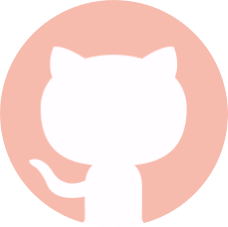
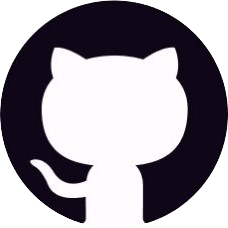
change color scheme

diff --git a/style.css b/style.css
@@ -2,10 +2,18 @@
 C4907E
 D9DBDD
 577F91
+f4bdaa
 252627 */
 
+/* 
+#0E0B16
+#A239CA
+#4717F6
+#E7DFDD
+*/
+
 body{
-    background: #D9DBDD;
+    background: #0E0B16;
     overflow: hidden;
     font-family:"Century Gothic", "sans serif";
 } 
@@ -32,14 +40,14 @@ body{
     width: 20vw;
     max-width:180px;
     height: 100vh;
-    background:#577F91; /*#F7EDE2;*/
+    background:#4717F6; /*#F7EDE2;*/
     padding: 30px;
     text-align: center;
     margin-top: 0%;
     font-size: min(2vw, 15px);
 }
 .nav-box-img{
-    border: 5px solid #f4bdaa;
+    border: 5px solid #0E0B16;
     width: 15vw;
     max-width: 100px;
     height: 15vw;
@@ -104,13 +112,14 @@ body{
   font-family:'Century Gothic', sans-serif;
   width: 40%;
   height: 60vh;
-  color: #252627;
+  color: #0E0B16;
   font-size: 1.5vw;
   padding-inline: 2vw;
+  color: #FFFFFF;
 }
 
 .about-me-box span{
-  color:#7B1618;
+  color:#A239CA;
   font-size: 110%;
   font-weight: 900;
 }
@@ -118,17 +127,17 @@ body{
 .about-me p{
   position: relative;
   font-family:"Century Gothic", "sans serif";
-  color: #252627;
+  color: #0E0B16;
   text-align:center;
 }
 
 .button {
-  background: #f4bdaa;
+  background: #A239CA;
   padding: 1vw;
   border-radius:0.5vw;
   text-decoration: none;
-  color:#7B1618;
-  border-color:#252627;
+  color:#0E0B16;
+  border-color:#A239CA;
   border-width: 1vw;
 }
 
@@ -139,7 +148,7 @@ body{
 .about-me-box .slideshow {
   width: 100%;
   margin: 10px auto;
-  filter: drop-shadow(0 0 10px #0003);
+  
 }
 
 .carousel.photos {
@@ -177,6 +186,7 @@ body{
 }
 
 .caption {
+  padding-top: 2vh;
   display: flex;
   justify-content: center;
   font-size: 80%;
@@ -269,8 +279,7 @@ body{
 .projtile {
   height: 50vh;
   width: 20vw;
-  background-color: #f4bdaa;
-  filter: drop-shadow(0 0 10px #0003);
+  background-color: #A239CA;
 }
 
 .projtile img {
@@ -283,7 +292,7 @@ body{
 .projtile .title {
   margin-left: 1.5vw;
   transform: translateY(-3vh);
-  color: #252627;
+  color: #0E0B16;
   letter-spacing: 1px;
   font-size: 75%;
   font-weight: 900;
@@ -292,7 +301,7 @@ body{
 .projtile .descr {
   margin-inline: 1.5vw;
   transform: translateY(-3vh);
-  color: #252627;
+  color: #0E0B16;
   letter-spacing: 1px;
   font-size: 50%;
 }

diff --git a/projects.html b/projects.html
@@ -12,15 +12,15 @@
                 <img src="about_me_photos/profile_pic.jpg" alt="" class="nav-box-img">
                 <h1>Indu Chatterjee</h1>
                 <a href="index.html" id="index">ABOUT ME</a>
-                <a href="projects.html" id="projects" style="color:#7B1618;">PROJECTS</a>
+                <a href="projects.html" id="projects" style="color:#0E0B16;">PROJECTS</a>
                 <ul> 
                     <li><a href="https://www.linkedin.com/in/indraja-chatterjee/" target="_blank"><img src="LinkedIn logo.png"></a></li> 
                     <li><a href="https://github.com/induc22" target="_blank"><img src="github-mark.png"></a></li>
                 </ul>
-                <a href="mailto:ichatterjee9@gatech.edu" class="button" style="color:#7B1618">EMAIL ME</a>
+                <a href="mailto:ichatterjee9@gatech.edu" class="button" style="color:#0E0B16">EMAIL ME</a>
             </div>
             <div class="page">
-                <h1 style="text-align: center;">My Projects</h1>
+                <h1 style="text-align: center; color: #E7DFDD">My Projects</h1>
                 <div class="masonry-grid" style="display: grid; grid-gap: 4vw; grid-template-columns: repeat(auto-fit, 20vw); justify-content: center;">
                     <div class="projtile">
                         <img src="about_me_photos/hive_hiking.PNG">

diff --git a/index.html b/index.html
@@ -11,13 +11,13 @@
             <div class="nav-box">
                 <img src="about_me_photos/profile_pic.jpg" alt="" class="nav-box-img">
                 <h1>Indu Chatterjee</h1>
-                <a href="index.html" id="index" style="color:#7B1618;">ABOUT ME</a>
+                <a href="index.html" id="index" style="color:#0E0B16;">ABOUT ME</a>
                 <a href="projects.html" id="projects">PROJECTS</a>
                 <ul> 
                     <li><a href="https://www.linkedin.com/in/indraja-chatterjee/" target="_blank"><img src="LinkedIn logo.png"></a></li> 
                     <li><a href="https://github.com/induc22" target="_blank"><img src="github-mark.png"></a></li>
                 </ul>
-                <a href="mailto:ichatterjee9@gatech.edu" class="button" style="color:#7B1618">EMAIL ME</a>
+                <a href="mailto:ichatterjee9@gatech.edu" class="button" style="color:#0E0B16;">EMAIL ME</a>
             </div>
             <div class="page" style="padding-top: 10vh; scroll-snap-align: start;">
                 <div class="about-me-box">
